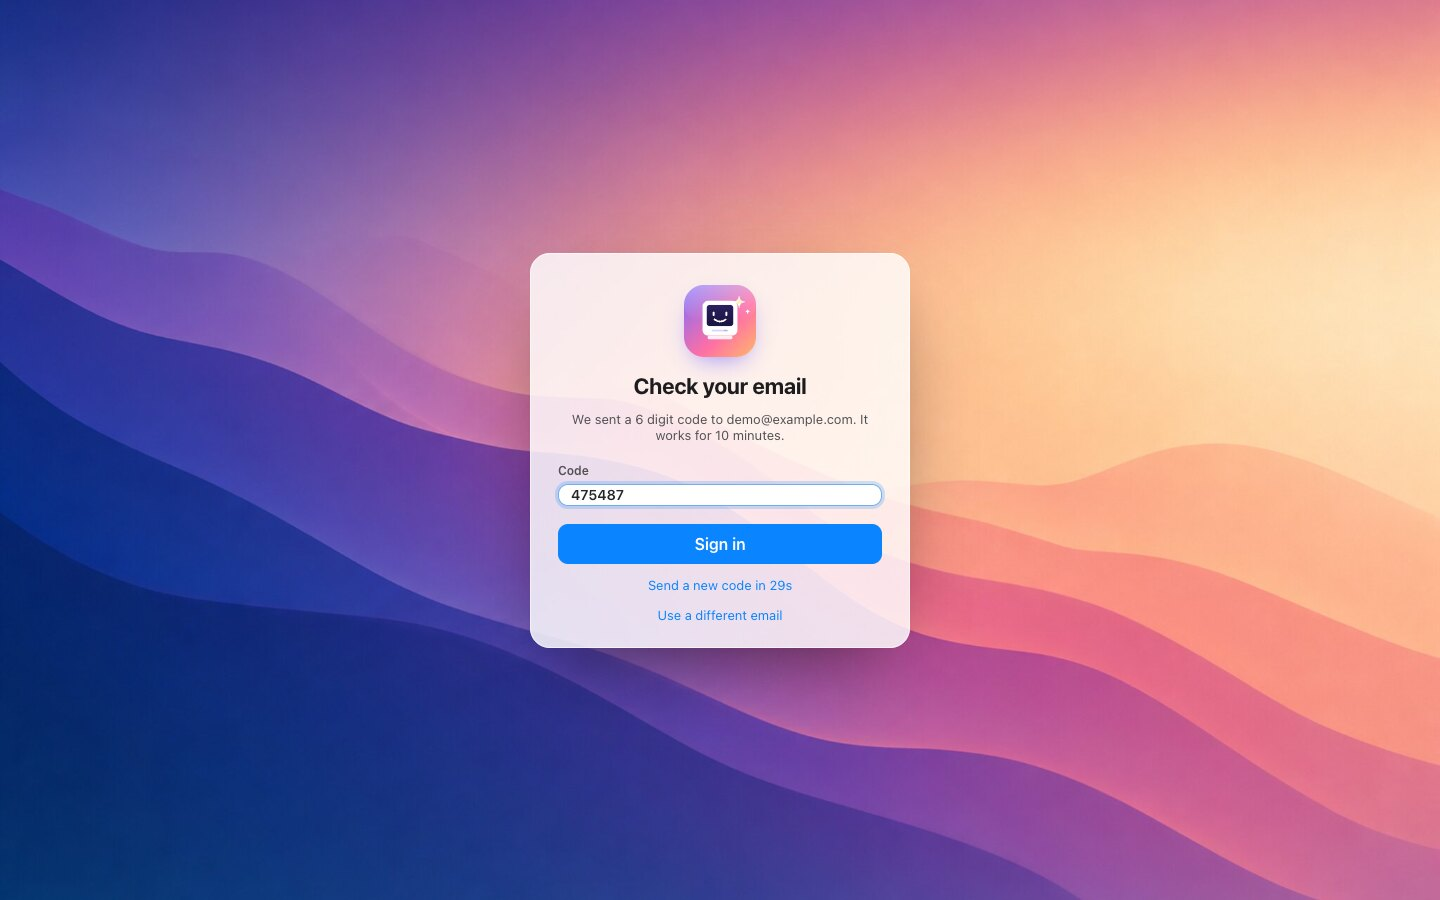
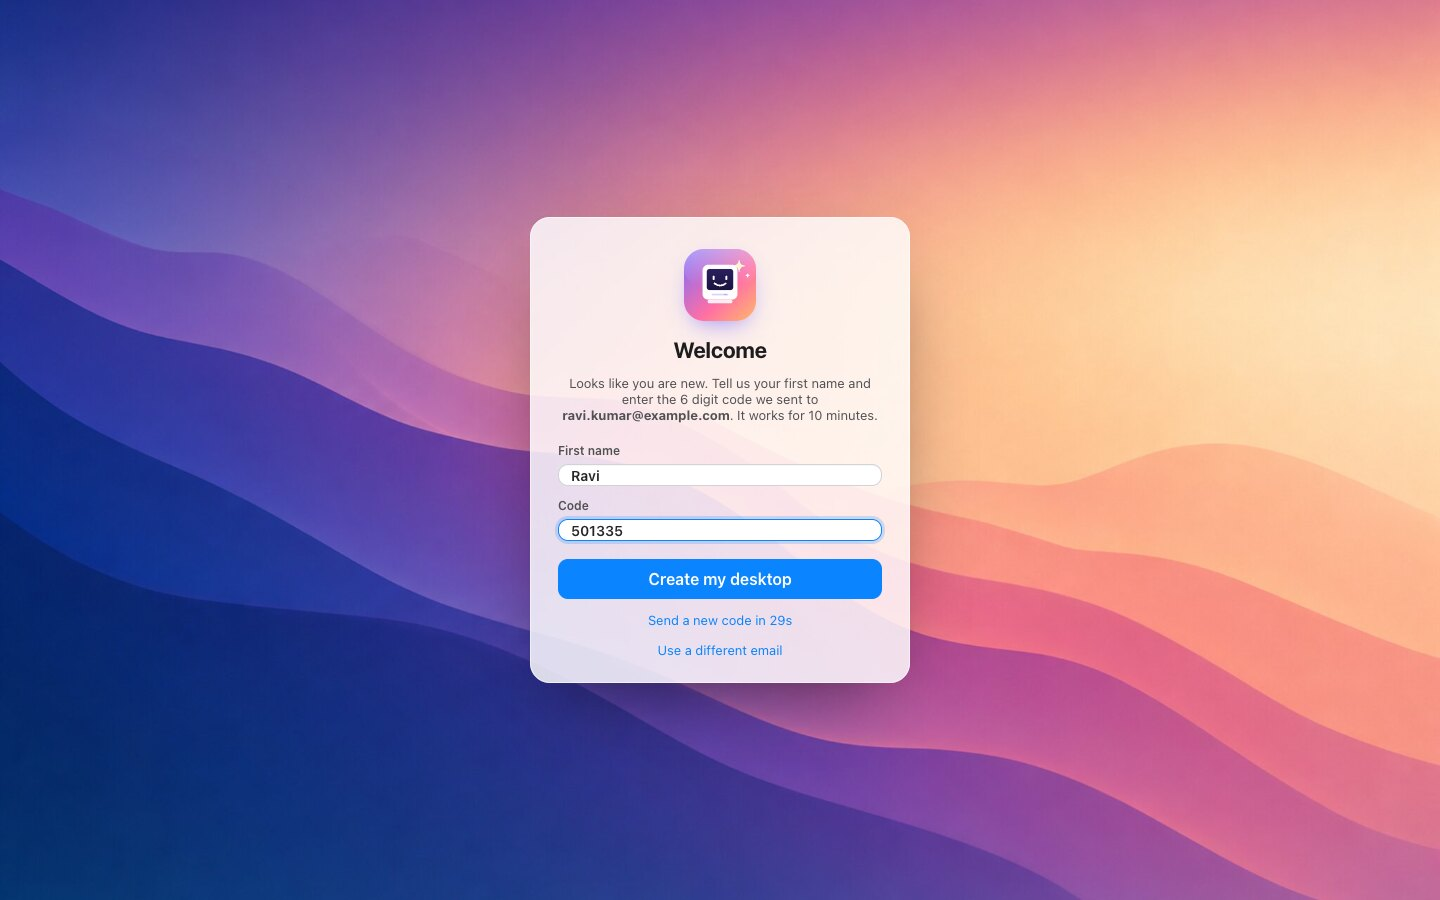
Sign in: email first, then the code, and a first name only for new addresses
The page asks for an email and sends a code. If the address has a desktop
the code is all that is needed; if it is new, a first name is asked for
too and prefilled from the part before the @. A missing name is rejected
before the code is spent, so it never costs a try. The lock screen asks
for the code only.

The request endpoint now says whether an address is new, which is what
makes this flow possible; the per-address and per-IP limits stay, and
README and SECURITY.md say so plainly. Screenshots and the tour GIF are
retaken for the new flow.

Changed region(s): [[0.3438, 0.2178, 0.6562, 0.7778]]

diff --git a/app/login/page.tsx b/app/login/page.tsx
@@ -6,11 +6,18 @@ import styles from "./login.module.css";
 
 const post = (url: string, body: unknown) => fetch(url, { method: "POST", headers: { "content-type": "application/json" }, body: JSON.stringify(body) });
 
+/** "ravi.kumar42@example.com" suggests "Ravi"; anything that does not look like a name suggests nothing. */
+function suggestName(email: string) {
+  const first = email.split("@")[0].split(/[^A-Za-zÀ-ɏ]+/).find((t) => t.length >= 2);
+  return first ? first[0].toUpperCase() + first.slice(1).toLowerCase() : "";
+}
+
 export default function LoginPage() {
   const router = useRouter();
-  const [step, setStep] = useState<"details" | "code">("details");
-  const [name, setName] = useState("");
+  const [step, setStep] = useState<"email" | "code">("email");
   const [email, setEmail] = useState("");
+  const [isNew, setIsNew] = useState(false);
+  const [name, setName] = useState("");
   const [code, setCode] = useState("");
   const [error, setError] = useState("");
   const [busy, setBusy] = useState(false);
@@ -26,10 +33,13 @@ export default function LoginPage() {
     e?.preventDefault();
     setBusy(true);
     setError("");
-    const r = await post("/api/auth/otp/request", { name, email });
+    const r = await post("/api/auth/otp/request", { email });
     const j = await r.json().catch(() => ({}));
     setBusy(false);
     if (!r.ok) return setError(j.error || "Something went wrong.");
+    setIsNew(!!j.isNew);
+    // Offer a name for a new address, but never overwrite one the person is typing.
+    if (j.isNew && !name) setName(suggestName(email));
     setStep("code");
     setCode("");
     setWait(30);
@@ -39,7 +49,7 @@ export default function LoginPage() {
     e.preventDefault();
     setBusy(true);
     setError("");
-    const r = await post("/api/auth/otp/verify", { email, code });
+    const r = await post("/api/auth/otp/verify", { email, code, name: isNew ? name : undefined });
     const j = await r.json().catch(() => ({}));
     if (!r.ok) {
       setBusy(false);
@@ -50,37 +60,42 @@ export default function LoginPage() {
 
   return (
     <main className={styles.page}>
-      {step === "details" ? (
+      {step === "email" ? (
         <form className={styles.card} onSubmit={sendCode}>
           {/* eslint-disable-next-line @next/next/no-img-element */}
           <img className={styles.logo} src="/logo.svg" alt="AI Mac logo" width={72} height={72} />
           <h1 className={styles.title}>AI Mac</h1>
-          <p className={styles.sub}>Enter your name and email. We will send you a code to sign in. New here? That creates your desktop.</p>
-          <label className={styles.label}>
-            Name
-            <input className={styles.input} type="text" autoComplete="name" maxLength={60} value={name} onChange={(e) => setName(e.target.value)} required />
-          </label>
+          <p className={styles.sub}>Enter your email and we will send you a code. No password, and new here is fine: that creates your desktop.</p>
           <label className={styles.label}>
             Email
-            <input className={styles.input} type="email" autoComplete="email" maxLength={254} value={email} onChange={(e) => setEmail(e.target.value)} required />
+            <input className={styles.input} type="email" autoComplete="email" autoFocus maxLength={254} value={email} onChange={(e) => setEmail(e.target.value)} required />
           </label>
           {error ? <p className={styles.error} role="alert">{error}</p> : null}
-          <button className={styles.primary} disabled={busy}>{busy ? "Sending" : "Send code"}</button>
+          <button className={styles.primary} disabled={busy}>{busy ? "Sending" : "Continue"}</button>
         </form>
       ) : (
         <form className={styles.card} onSubmit={verify}>
           {/* eslint-disable-next-line @next/next/no-img-element */}
           <img className={styles.logo} src="/logo.svg" alt="AI Mac logo" width={72} height={72} />
-          <h1 className={styles.title}>Check your email</h1>
-          <p className={styles.sub}>We sent a 6 digit code to {email}. It works for 10 minutes.</p>
+          <h1 className={styles.title}>{isNew ? "Welcome" : "Welcome back"}</h1>
+          <p className={styles.sub}>
+            {isNew ? "Looks like you are new. Tell us your first name and enter the 6 digit code we sent to " : "Enter the 6 digit code we sent to "}
+            <strong>{email}</strong>. It works for 10 minutes.
+          </p>
+          {isNew ? (
+            <label className={styles.label}>
+              First name
+              <input className={styles.input} type="text" autoComplete="given-name" maxLength={60} autoFocus value={name} onChange={(e) => setName(e.target.value)} required />
+            </label>
+          ) : null}
           <label className={styles.label}>
             Code
-            <input className={styles.input} type="text" inputMode="numeric" pattern="[0-9]{6}" maxLength={6} autoComplete="one-time-code" autoFocus value={code} onChange={(e) => setCode(e.target.value.replace(/\D/g, ""))} required />
+            <input className={styles.input} type="text" inputMode="numeric" pattern="[0-9]{6}" maxLength={6} autoComplete="one-time-code" autoFocus={!isNew} value={code} onChange={(e) => setCode(e.target.value.replace(/\D/g, ""))} required />
           </label>
           {error ? <p className={styles.error} role="alert">{error}</p> : null}
-          <button className={styles.primary} disabled={busy || code.length !== 6}>{busy ? "One moment" : "Sign in"}</button>
+          <button className={styles.primary} disabled={busy || code.length !== 6 || (isNew && !name.trim())}>{busy ? "One moment" : isNew ? "Create my desktop" : "Sign in"}</button>
           <button type="button" className={styles.link} disabled={wait > 0 || busy} onClick={() => sendCode()}>{wait > 0 ? `Send a new code in ${wait}s` : "Send a new code"}</button>
-          <button type="button" className={styles.link} onClick={() => { setStep("details"); setError(""); }}>Use a different email</button>
+          <button type="button" className={styles.link} onClick={() => { setStep("email"); setError(""); }}>Use a different email</button>
         </form>
       )}
     </main>

diff --git a/lib/otp.ts b/lib/otp.ts
@@ -37,10 +37,12 @@ function hashCode(email: string, code: string) {
 }
 
 /** On success, `challenge` goes to the requesting browser as a cookie; only that browser can use the code. */
-export type IssueResult = { ok: true; challenge: string } | { ok: false; status: number; error: string };
+export type IssueResult = { ok: true; challenge: string; isNew: boolean } | { ok: false; status: number; error: string };
 
-export async function issueCode(email: string, name: string, ip: string): Promise<IssueResult> {
+export async function issueCode(email: string, ip: string): Promise<IssueResult> {
   await ensureSchema();
+  const [account] = await sql<{ name: string | null }[]>`select name from users where email = ${email}`;
+  const name = account?.name ?? "";
   const [lim] = await sql<{ recent: number; last_secs: number | null; by_ip: number }[]>`
     select
       count(*) filter (where email = ${email} and created_at > now() - interval '1 hour')::int as recent,
@@ -62,7 +64,7 @@ export async function issueCode(email: string, name: string, ip: string): Promis
     console.error("Could not send the sign-in email:", e instanceof Error ? e.message : e);
     return { ok: false, status: 502, error: "Could not send the email. Try again in a moment." };
   }
-  return { ok: true, challenge };
+  return { ok: true, challenge, isNew: !account };
 }
 
 export type VerifyResult = { ok: true; name: string } | { ok: false; error: string };
@@ -99,12 +101,13 @@ async function sendCodeEmail(to: string, name: string, code: string) {
     return;
   }
   const safe = escapeHtml(name);
+  const hi = name ? `Hi ${safe},` : "Hi,";
   const html = `<div style="font-family:-apple-system,BlinkMacSystemFont,'Helvetica Neue',Arial,sans-serif;max-width:420px;margin:0 auto;padding:24px;color:#1d1d1f">
-<p style="font-size:15px;margin:0 0 16px">Hi ${safe},</p>
+<p style="font-size:15px;margin:0 0 16px">${hi}</p>
 <p style="font-size:15px;margin:0 0 16px">Your AI Mac sign-in code is:</p>
 <p style="font-size:32px;letter-spacing:6px;font-weight:600;margin:0 0 16px">${code}</p>
 <p style="font-size:13px;color:#6e6e73;margin:0">It expires in ${TTL_MINUTES} minutes and works once. If you did not ask for it, ignore this email; nobody can sign in without the code.</p></div>`;
-  const text = `Hi ${name},\n\nYour AI Mac sign-in code is ${code}.\nIt expires in ${TTL_MINUTES} minutes and works once. If you did not ask for it, ignore this email.\n`;
+  const text = `${name ? `Hi ${name},` : "Hi,"}\n\nYour AI Mac sign-in code is ${code}.\nIt expires in ${TTL_MINUTES} minutes and works once. If you did not ask for it, ignore this email.\n`;
   const r = await fetch("https://api.resend.com/emails", {
     method: "POST",
     headers: { authorization: `Bearer ${key}`, "content-type": "application/json" },

diff --git a/app/api/auth/otp/verify/route.ts b/app/api/auth/otp/verify/route.ts
@@ -1,16 +1,22 @@
 import { NextResponse } from "next/server";
 import { cookies } from "next/headers";
-import { findOrCreateUser, setSession } from "@/lib/auth";
-import { CHALLENGE_COOKIE, cleanEmail, verifyCode } from "@/lib/otp";
+import { findOrCreateUser, setSession, userExists } from "@/lib/auth";
+import { CHALLENGE_COOKIE, cleanEmail, cleanName, verifyCode } from "@/lib/otp";
 
-/** Checks the code and signs in. A first sign-in creates the desktop. */
+const headers = { "cache-control": "no-store" };
+
+/** Checks the code and signs in. A first sign-in also needs a first name, and creates the desktop. */
 export async function POST(req: Request) {
   const body = await req.json().catch(() => ({}));
   const email = cleanEmail(body.email);
+  if (!email) return NextResponse.json({ error: "Enter a valid email." }, { status: 400, headers });
+  // Ask for the name before the code is spent, so a missing name never costs a try.
+  const name = cleanName(body.name) ?? undefined;
+  if (!name && !(await userExists(email))) return NextResponse.json({ error: "Enter your first name.", needsName: true }, { status: 400, headers });
   const challenge = (await cookies()).get(CHALLENGE_COOKIE)?.value ?? "";
-  const r = email ? await verifyCode(email, String(body.code ?? "").trim(), challenge) : null;
-  if (!email || !r || !r.ok) return NextResponse.json({ error: r && !r.ok ? r.error : "Enter a valid email." }, { status: 401, headers: { "cache-control": "no-store" } });
+  const r = await verifyCode(email, String(body.code ?? "").trim(), challenge);
+  if (!r.ok) return NextResponse.json({ error: r.error }, { status: 401, headers });
   (await cookies()).delete(CHALLENGE_COOKIE);
-  await setSession(await findOrCreateUser(email, r.name));
-  return NextResponse.json({ ok: true }, { headers: { "cache-control": "no-store" } });
+  await setSession(await findOrCreateUser(email, name));
+  return NextResponse.json({ ok: true }, { headers });
 }

diff --git a/app/api/auth/otp/request/route.ts b/app/api/auth/otp/request/route.ts
@@ -1,17 +1,19 @@
 import { NextResponse } from "next/server";
 import { cookies } from "next/headers";
 import { clientIp } from "@/lib/ip";
-import { CHALLENGE_COOKIE, cleanEmail, cleanName, issueCode } from "@/lib/otp";
+import { CHALLENGE_COOKIE, cleanEmail, issueCode } from "@/lib/otp";
 
-/** Sends a sign-in code. The answer never says whether the address already has a desktop. */
+/**
+ * Sends a sign-in code to any valid address and says whether it is new, so the page
+ * knows to ask for a first name. That tells a caller whether an address has a desktop;
+ * the per-address and per-IP limits in issueCode keep it from being a free lookup.
+ */
 export async function POST(req: Request) {
   const body = await req.json().catch(() => ({}));
   const email = cleanEmail(body.email);
-  const name = cleanName(body.name);
-  if (!name) return NextResponse.json({ error: "Enter your name." }, { status: 400 });
   if (!email) return NextResponse.json({ error: "Enter a valid email." }, { status: 400 });
-  const r = await issueCode(email, name, clientIp(req));
+  const r = await issueCode(email, clientIp(req));
   if (!r.ok) return NextResponse.json({ error: r.error }, { status: r.status, headers: { "cache-control": "no-store" } });
   (await cookies()).set(CHALLENGE_COOKIE, r.challenge, { httpOnly: true, secure: process.env.NODE_ENV === "production", sameSite: "lax", path: "/api/auth/otp", maxAge: 600 });
-  return NextResponse.json({ ok: true }, { headers: { "cache-control": "no-store" } });
+  return NextResponse.json({ ok: true, isNew: r.isNew }, { headers: { "cache-control": "no-store" } });
 }

diff --git a/lib/auth.ts b/lib/auth.ts
@@ -9,16 +9,22 @@ const secret = () => new TextEncoder().encode(process.env.SESSION_SECRET!);
 export type SessionUser = { id: number; email: string; name?: string };
 
 /** The account for a verified email: created on first sign-in with the name given, found afterwards. */
-export async function findOrCreateUser(email: string, name: string): Promise<SessionUser> {
+export async function userExists(email: string): Promise<boolean> {
+  await ensureSchema();
+  const [u] = await sql`select 1 from users where email = ${email}`;
+  return !!u;
+}
+
+export async function findOrCreateUser(email: string, name?: string): Promise<SessionUser> {
   await ensureSchema();
   const [existing] = await sql<{ id: number; email: string; name: string | null }[]>`
     select id, email, name from users where email = ${email}`;
   if (existing) {
-    if (!existing.name) await sql`update users set name = ${name} where id = ${existing.id}`;
+    if (!existing.name && name) await sql`update users set name = ${name} where id = ${existing.id}`;
     return { id: existing.id, email: existing.email, name: existing.name || name };
   }
   const [u] = await sql<{ id: number; email: string }[]>`
-    insert into users (email, name) values (${email}, ${name})
+    insert into users (email, name) values (${email}, ${name ?? null})
     on conflict (email) do update set email = excluded.email
     returning id, email`;
   await seedDefaultApps(u.id);

diff --git a/components/Desktop.tsx b/components/Desktop.tsx
@@ -688,7 +688,7 @@ function LockScreen({ email, name, message, showUser, bg, onUnlock, onSwitch }: 
   const post = (url: string, body: unknown) => fetch(url, { method: "POST", headers: { "content-type": "application/json" }, body: JSON.stringify(body) });
   async function sendCode() {
     setNote("");
-    const r = await post("/api/auth/otp/request", { name, email });
+    const r = await post("/api/auth/otp/request", { email });
     const j = await r.json().catch(() => ({}));
     if (!r.ok) return setNote(j.error || "Could not send the code.");
     setSent(true);

diff --git a/README.md b/README.md
@@ -33,7 +33,7 @@
 
 ## What is it?
 
-Sign in with your name and email (a six digit code arrives by email, no password) and you get a Mac-style desktop with a dock, a menu bar and a set of icons: Notes, Calculator, Reminders, Calendar, Weather, Freeform, Music and two arcade games. Every user has their own desktop, their own copy of every app and their own data.
+Sign in with just your email (a six digit code arrives by email, no password; new here? add your first name) and you get a Mac-style desktop with a dock, a menu bar and a set of icons: Notes, Calculator, Reminders, Calendar, Weather, Freeform, Music and two arcade games. Every user has their own desktop, their own copy of every app and their own data.
 
 - **Open an app that doesn't exist yet and a model writes it in front of you**, streaming the code into the window. It is checked, stored, and from then on loads from your own cache in milliseconds.
 - **"New app" turns a sentence into a new icon.** *"A habit tracker with streaks"* becomes an app on your desktop with a generated icon.
@@ -46,7 +46,7 @@ Sign in with your name and email (a six digit code arrives by email, no password
 <table>
   <tr>
     <td width="50%"><img src="docs/images/desktop.jpg" alt="The desktop with dock, menu bar and icons"><br><sub><b>The desktop</b> — menu bar, dock with magnification, icons on the right.</sub></td>
-    <td width="50%"><img src="docs/images/login.jpg" alt="The sign-in card asking for a name and email"><br><sub><b>Sign in</b> — name and email, then a code by email. No passwords.</sub></td>
+    <td width="50%"><img src="docs/images/login.jpg" alt="The sign-in card asking for an email"><br><sub><b>Sign in</b> — your email, then a code. New here? Add your first name, prefilled from the email.</sub></td>
   </tr>
   <tr>
     <td><img src="docs/images/bomberman.jpg" alt="Bomberman mid-game with a bomb exploding"><br><sub><b>Bomberman</b> — a playable arcade game, written by the model and reviewed.</sub></td>
@@ -76,7 +76,7 @@ npm install
 npm run dev                     # http://localhost:3000
 ```
 
-Sign in with any name and email. In development the six digit code is **printed in the terminal** instead of being emailed, so you need no mail provider. The schema creates itself on first use.
+Sign in with any email. In development the six digit code is **printed in the terminal** instead of being emailed, so you need no mail provider. The schema creates itself on first use.
 
 To generate new apps, add `OPENAI_API_KEY` to `.env.local`.
 
@@ -204,7 +204,7 @@ Generated code is untrusted code, so the design assumes the model can write some
 - **A narrow door.** The only way out is the `window.aic` bridge over `postMessage`. The host answers each request through the normal authenticated API, scoped to the signed-in user and that one app.
 - **A validator and a runtime check** catch the obvious escapes and the obvious breakage before an app is stored.
 - **The built-in browser is a proxy** (`app/api/browse/route.ts`). It refuses non-http(s) addresses, addresses with credentials, `localhost`, `.local` and `.internal` names, and any host that resolves to a private or link-local address. It caps responses at 4 MB, strips frame-blocking headers, and runs the page in its own sandboxed frame with an opaque origin so page scripts cannot reach your session.
-- **Sign-in is an emailed code** (`lib/otp.ts`). The code is six digits from a CSPRNG, stored only as an HMAC, valid for 10 minutes, single use, and locked after 5 wrong tries (counted atomically, so parallel guesses cannot beat the limit). Requests are limited to one per 30 seconds and 5 per hour per address, and 20 per hour per IP. The response never says whether an address already has a desktop, and names are stripped of control characters and angle brackets and HTML-escaped in the email.
+- **Sign-in is an emailed code** (`lib/otp.ts`). The code is six digits from a CSPRNG, stored only as an HMAC, valid for 10 minutes, single use, and locked after 5 wrong tries (counted atomically, so parallel guesses cannot beat the limit). Requests are limited to one per 30 seconds and 5 per hour per address, and 20 per hour per IP. Each code is bound to the browser that requested it, so a stranger who knows only your address cannot use up your tries. The sign-in page asks only for an email and then, for a new address, a first name, so the request endpoint does say whether an address already has a desktop; the rate limits above stop that being a free lookup. Names are stripped of control characters and angle brackets and HTML-escaped in the email.
 - **Hardened responses.** Every response carries HSTS, `nosniff`, `X-Frame-Options: SAMEORIGIN` and a `frame-ancestors 'self'` policy, a strict referrer policy and a locked-down permissions policy.
 - **Secrets stay server-side.** The OpenAI key is only ever read by the server. Apps get a short answer from `aic.ask`, never a key.
 
@@ -236,7 +236,7 @@ To check fidelity, screenshots of each app are taken with Playwright and reviewe
 
 ```
 app/              pages and API routes
-  login/          name and email, then the emailed code
+  login/          email, then the emailed code (and a first name for new addresses)
   desktop/        the desktop page
   api/auth/       otp/request, otp/verify, logout
   api/apps/       list, create; per app: get or build, improve, data, ask, versions

diff --git a/SECURITY.md b/SECURITY.md
@@ -24,7 +24,7 @@ The threat model is that **generated code is untrusted**. Reports we especially 
 - **Sandbox escapes:** a generated app reading cookies, calling the API as the user, reaching the desktop page, or navigating the top window. Apps must run in `<iframe sandbox="allow-scripts">` with no `allow-same-origin`.
 - **Validator bypasses** in `lib/sandbox.ts` that let an app do something it forbids.
 - **SSRF** through `/api/browse` (reaching private, link-local or loopback addresses, redirects to them, DNS rebinding).
-- **Sign-in flaws:** guessing or replaying a code, bypassing the attempt or rate limits, account takeover, account enumeration, session fixation.
+- **Sign-in flaws:** guessing or replaying a code, bypassing the attempt or rate limits, account takeover, session fixation, or learning whether an address has an account faster than the documented rate limits allow. (The sign-in page deliberately tells new addresses from existing ones so it can ask for a first name.)
 - **Cross-user access:** reading or changing another user's apps, versions, data or files.
 - **Injection,** XSS, CSRF, header or cookie weaknesses, and leaking secrets in responses or logs.
 

diff --git a/CHANGELOG.md b/CHANGELOG.md
@@ -11,7 +11,7 @@ All notable changes to this project are documented here. The format follows [Kee
 - `docker-compose.yml` for local Postgres and a complete `.env.example`.
 
 ### Changed
-- Sign in with a name and an emailed six digit code instead of a password. Codes are single use, expire after 10 minutes, are stored only as an HMAC and are bound to the requesting browser.
+- Sign in with an emailed six digit code instead of a password: enter your email, then the code; a new address is also asked for a first name, prefilled from the email. Codes are single use, expire after 10 minutes, are stored only as an HMAC and are bound to the requesting browser.
 - Dependencies and Node updated to the latest (Node 24+, Next 16, React 19, TypeScript 6); production dependencies report no known vulnerabilities.
 - Security headers on every response and a `Secure` session cookie in production.
 - The OpenAI client is created on first use, so the desktop and every shipped app work without an API key.
